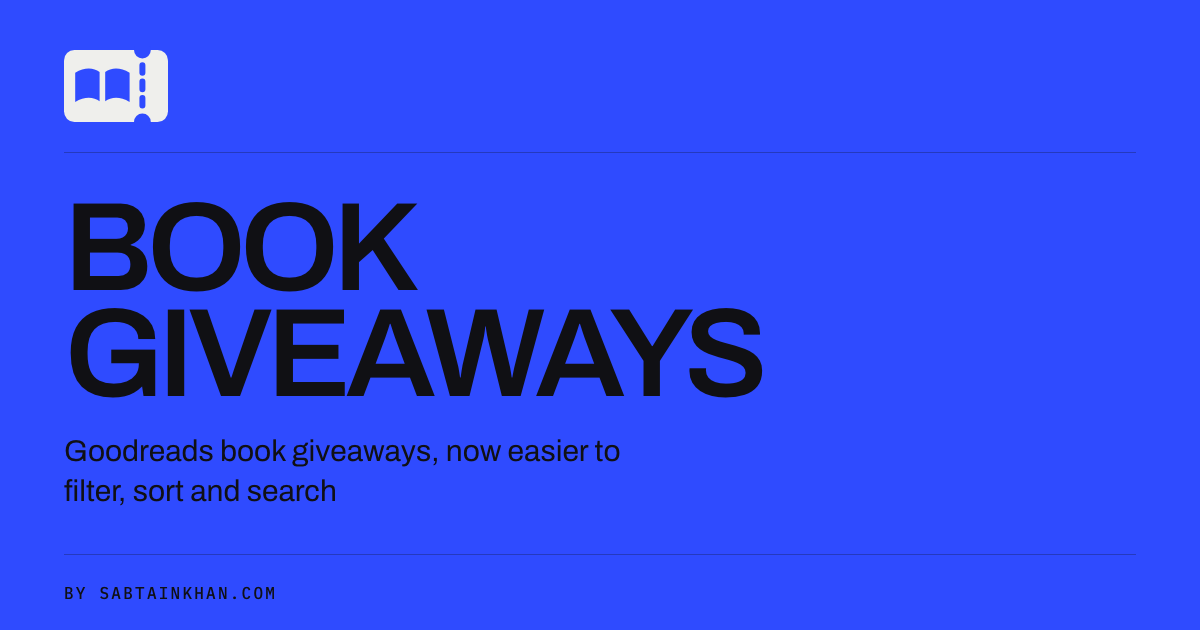
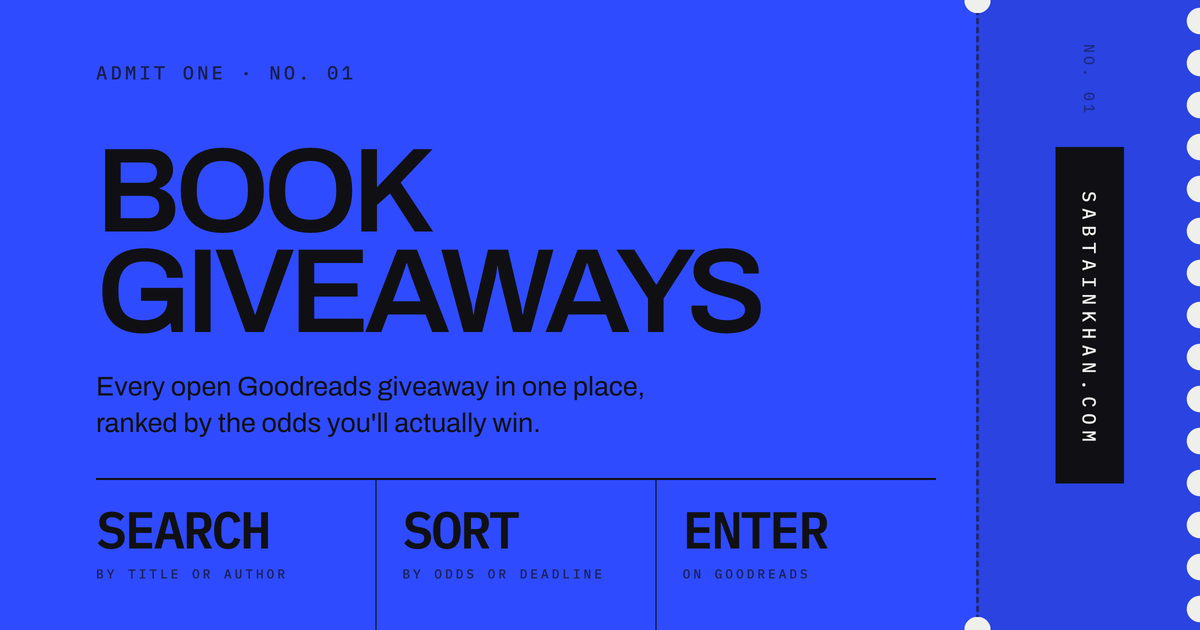
Redraw the share card as a raffle ticket
The hero became a raffle ticket in a9e6c9f; the share card never followed, so
every link still previewed the old flat panel. Rebuild it out of the hero's own
parts — the radial-gradient scallops, the perforated stub, the stat strip whose
1px gaps read as hairlines — scaled ~1.85x, because a timeline shows the card at
a third of its size.

Two departures from the hero. It is punched only down the right edge, where the
stub is and where a ticket is actually torn; punching all four turns it into a
stamp. And the stub runs the full height, because a perforation that stops short
reads as a panel rather than a tear line. Two additions the hero has no room
for: a nick bitten out of each end of the perforation, which is favicon.svg's
own geometry, and the serial repeated on the stub, since the point of a stub is
that both halves carry the number once it is torn.

The stub field is .13 rather than the hero's .07. At .07 it shifts the accent by
three units — fine across the hero at full size, invisible on a card scaled
down, which left the dashed line floating with nothing behind it.

Render at 2x and downsample, the same master-then-LANCZOS trick the icons
already use: the card is nearly all curves now and every one of them aliased at
1x. shot() takes a scale argument defaulting to 1, so the icon path is
untouched and its three PNGs are byte-identical.

diff --git a/tools/og.html b/tools/og.html
@@ -4,8 +4,11 @@
 <meta charset="utf-8">
 <title>Book Giveaways — share card</title>
 <!-- Source for public/og.png (1200x630). Render with: python3 tools/make-assets.py
-     Same palette and type system as public/index.html: accent field, ink text,
-     Archivo for display, IBM Plex Mono for the labels. -->
+     One raffle ticket filling the canvas — the same object as the hero in
+     public/index.html: punched edges, a perforated stub, a hairline stat strip.
+     Every value is the hero's, scaled ~1.85x, because a timeline shows this card
+     about a third of its true size. Deliberately static: no live counts, so
+     nothing here can contradict the page between scrapes. -->
 <link rel="preconnect" href="https://fonts.googleapis.com">
 <link rel="preconnect" href="https://fonts.gstatic.com" crossorigin>
 <link href="https://fonts.googleapis.com/css2?family=Archivo:wght@400;500;600;700&family=IBM+Plex+Mono:wght@400;500;600&display=swap" rel="stylesheet">
@@ -16,7 +19,6 @@
   --accent:#2F4BFF;
   --sans:Archivo,Helvetica,Arial,sans-serif;
   --mono:'IBM Plex Mono',monospace;
-  --rule:rgba(16,16,20,.28);
 }
 *{box-sizing:border-box;}
 html,body{margin:0;padding:0;}
@@ -30,83 +32,217 @@ body{
   -webkit-font-smoothing:antialiased;
 }
 .card{
-  width:100%;
+  position:relative;
+  width:1200px;
+  height:630px;
+}
+/* Everything left of the perforation. The right padding is the 224px stub plus
+   a 40px gap, so no line of type ever runs up against the dashes. */
+.body{
   height:100%;
-  padding:46px 64px 0;
   display:flex;
   flex-direction:column;
+  padding:46px 264px 0 96px;
 }
-.top{
+
+/* ------------------------------------------------------------ punched edge */
+/* Same technique as the hero: the scallops are cut in paper, because paper is
+   what's behind the ticket. Radius 13 over a 24px strip keeps the hero's 7/13,
+   and the 42px pitch divides the canvas exactly (630/42 = 15), so the edge ends
+   on a whole punch instead of a stranded half one.
+   Only the right edge, where the stub is: that is the edge the ticket is torn
+   along, and punching all four turns it into a stamp. The other three run off
+   the canvas the way the hero's top edge runs off the page.
+   Paper, never transparent: og.png is saved RGB and gets composited onto
+   whatever ground the platform has, so a transparent punch would go black. */
+.punch{position:absolute;pointer-events:none;}
+.punch-r{
+  top:0;
+  bottom:0;
+  right:0;
+  width:24px;
+  background-size:24px 42px;
+  background-repeat:repeat-y;
+  background-image:radial-gradient(circle at 24px 21px,var(--paper) 13px,rgba(239,239,236,0) 13.5px);
+}
+
+/* ----------------------------------------------------------------- top rail */
+/* Flush left, above the headline, the way .serial sits on the giveaway cards.
+   The serial format is the cards' too: String(i + 1).padStart(2, "0"). */
+.rail{
   display:flex;
   align-items:center;
-  justify-content:space-between;
-  padding-bottom:26px;
-  border-bottom:1px solid var(--rule);
+  height:52px;
+  font-family:var(--mono);
+  font-size:19px;
+  font-weight:500;
+  letter-spacing:.16em;
+  text-transform:uppercase;
+  opacity:.75;
 }
-.ticket{width:104px;height:80px;display:block;}
+
+/* ---------------------------------------------------------------------- mid */
 .mid{
   flex:1;
   display:flex;
   flex-direction:column;
   justify-content:center;
-  gap:24px;
-  padding:22px 0;
+  gap:26px;
+  padding-block:40px 34px;
 }
 h1{
   margin:0;
   font-weight:600;
-  font-size:126px;
+  font-size:120px;
   line-height:.84;
   letter-spacing:-.045em;
   text-transform:uppercase;
 }
-.deck{
-  margin:0;
-  max-width:34ch;
-  font-size:30px;
-  line-height:1.35;
-  font-weight:400;
-}
-.bottom{
+/* Hard-broken rather than wrapped: the canvas is a fixed size, so the line
+   breaks may as well be fixed too. */
+.deck{margin:0;font-size:27px;line-height:1.35;font-weight:400;}
+
+/* -------------------------------------------------------- tear-off stub */
+/* Full height, unlike the hero's, where the stub is only as tall as the headline
+   row: a real stub is torn off the whole ticket, and at thumbnail size a
+   perforation that stops short reads as a panel rather than a tear line. It sits
+   under the punch strips — they come after it in the DOM — so the scallops eat
+   into the stub exactly as they do into the rest of the ticket. */
+.stub{
+  position:absolute;
+  top:0;
+  bottom:0;
+  right:0;
+  width:224px;
   display:flex;
   align-items:center;
-  justify-content:space-between;
-  height:76px;
-  border-top:1px solid var(--rule);
+  justify-content:center;
+  /* The hero's stub field is .07, which shifts the accent by three units — fine
+     across the hero's width at full size, invisible on a card shown at a third
+     of it. .13 is the same idea, loud enough to survive the downscale. */
+  background:rgba(16,16,20,.13);
+  border-left:3px dashed rgba(16,16,20,.5);
+}
+/* A nick bitten out of each end of the perforation, the way a real ticket is
+   nicked so the tear starts cleanly. favicon.svg does the same thing — a punched
+   circle at each end of its dashed line — so this is the mark's own geometry.
+   Radius 13 is the scallops' radius: one die cut everything on the card. */
+.nick{
+  position:absolute;
+  left:964.5px;
+  width:26px;
+  height:13px;
+  pointer-events:none;
+}
+.nick-t{
+  top:0;
+  background-image:radial-gradient(circle at 13px 0,var(--paper) 13px,rgba(239,239,236,0) 13.5px);
+}
+.nick-b{
+  bottom:0;
+  background-image:radial-gradient(circle at 13px 13px,var(--paper) 13px,rgba(239,239,236,0) 13.5px);
+}
+/* The hero's ink chip, credit instead of "Tear here": a still image can't
+   honour the invitation to tear, but it can say where the ticket came from.
+   Padding is asymmetric because vertical-rl hangs the full .3em of tracking off
+   the last glyph — even padding would sit the word low in the chip. */
+/* The serial repeated on the stub — the whole point of a stub being that both
+   halves carry the same number once it's torn. Quieter than the one on the body
+   so it reads as a counterfoil rather than a second headline. */
+.stub-serial{
+  position:absolute;
+  top:44px;
+  left:50%;
+  transform:translateX(-50%);
+  writing-mode:vertical-rl;
   font-family:var(--mono);
-  font-size:16px;
+  font-size:15px;
   font-weight:500;
-  letter-spacing:.14em;
+  letter-spacing:.2em;
   text-transform:uppercase;
+  opacity:.45;
+}
+.chip{
+  background:var(--ink);
+  color:var(--paper);
+  padding:44px 22px 36px;
+  font-family:var(--mono);
+  font-size:19px;
+  font-weight:500;
+  letter-spacing:.3em;
+  text-transform:uppercase;
+  writing-mode:vertical-rl;
+}
+
+/* ----------------------------------------------------------- stat strip */
+/* The hero's construction exactly: accent cells over an ink background, so the
+   1px gaps read as hairlines. No numbers — the card is static, so the strip
+   carries the three verbs, which can't go stale. Their bottom padding is what
+   the bottom punch bites into, the same way it does under the hero's stats. */
+.stats{
+  display:grid;
+  grid-template-columns:repeat(3,1fr);
+  gap:1px;
+  background:var(--ink);
+  border-top:2px solid var(--ink);
+}
+.stat{
+  background:var(--accent);
+  /* The bottom padding clears the punch strip: the labels would otherwise sit
+     8px off the scallops and read as if they were about to be bitten. */
+  padding:26px 0 48px 26px;
+  display:flex;
+  flex-direction:column;
+  gap:12px;
+}
+.stat:first-child{padding-left:0;}
+.stat-value{
+  font-family:var(--mono);
+  font-size:52px;
+  font-weight:600;
+  line-height:.9;
+  letter-spacing:-.045em;
+  text-transform:uppercase;
+}
+.stat-label{
+  font-family:var(--mono);
+  font-size:13px;
+  font-weight:500;
+  letter-spacing:.22em;
+  text-transform:uppercase;
+  opacity:.7;
 }
 </style>
 </head>
 <body>
 
 <div class="card">
-  <div class="top">
-    <!-- Same mark as public/favicon.svg, minus its accent tile: the field is
-         already accent, so the ticket sits straight on it. -->
-    <svg class="ticket" viewBox="3 6 26 20" aria-hidden="true">
-      <rect x="3" y="7" width="26" height="18" rx="2.6" fill="#EFEFEC"/>
-      <circle cx="22.6" cy="7" r="2.1" fill="#2F4BFF"/>
-      <circle cx="22.6" cy="25" r="2.1" fill="#2F4BFF"/>
-      <path d="M22.6 10.8v10.4" stroke="#2F4BFF" stroke-width="1.5" stroke-linecap="round" stroke-dasharray="1.9 2.2"/>
-      <g fill="#2F4BFF">
-        <path d="M5.8 12.7c2.4-1.5 4.6-1.3 6.1-.2v7.3c-1.5-1.1-3.7-1.3-6.1.2z"/>
-        <path d="M19.4 12.7c-2.4-1.5-4.6-1.3-6.1-.2v7.3c1.5-1.1 3.7-1.3 6.1.2z"/>
-      </g>
-    </svg>
+  <div class="body">
+    <div class="rail">
+      <span class="serial">Admit one &middot; No.&nbsp;01</span>
+    </div>
+
+    <div class="mid">
+      <h1>Book<br>Giveaways</h1>
+      <p class="deck">Every open Goodreads giveaway in one place,<br>ranked by the odds you'll actually win.</p>
+    </div>
+
+    <div class="stats">
+      <div class="stat"><span class="stat-value">Search</span><span class="stat-label">By title or author</span></div>
+      <div class="stat"><span class="stat-value">Sort</span><span class="stat-label">By odds or deadline</span></div>
+      <div class="stat"><span class="stat-value">Enter</span><span class="stat-label">On Goodreads</span></div>
+    </div>
   </div>
 
-  <div class="mid">
-    <h1>Book<br>Giveaways</h1>
-    <p class="deck">Goodreads book giveaways, now easier to filter, sort and search</p>
+  <div class="stub">
+    <span class="stub-serial">No.&nbsp;01</span>
+    <span class="chip">sabtainkhan.com</span>
   </div>
 
-  <div class="bottom">
-    <span>By sabtainkhan.com</span>
-  </div>
+  <!-- Last, so the scallops are punched through the stub above them. -->
+  <span class="punch punch-r" aria-hidden="true"></span>
+  <span class="nick nick-t" aria-hidden="true"></span>
+  <span class="nick nick-b" aria-hidden="true"></span>
 </div>
 
 </body>

diff --git a/tools/make-assets.py b/tools/make-assets.py
@@ -29,10 +29,19 @@ ICON_MASTER = 512
 ICON_SIZES = {"favicon-16.png": 16, "favicon-32.png": 32, "apple-touch-icon.png": 180}
 
 OG_WIDTH, OG_HEIGHT = 1200, 630
+# The card is mostly curves now — a punched edge, the nicks at each end of the
+# perforation, hairline gaps in the stat strip — and all of them alias at 1x.
+# Same answer as the icons: render a 2x master and let Pillow do the downscale.
+# 2x is enough, because every value in og.html doubles to a whole device pixel.
+OG_SCALE = 2
 
 
-def shot(html_path, png_path, width, height):
-    """Screenshot a local HTML file at an exact viewport size."""
+def shot(html_path, png_path, width, height, scale=1):
+    """Screenshot a local HTML file at an exact viewport size.
+
+    width/height stay in CSS pixels; scale multiplies them into device pixels,
+    so the output is (width * scale) x (height * scale).
+    """
     if not pathlib.Path(CHROME).exists():
         sys.exit("Google Chrome not found at %s" % CHROME)
     subprocess.run(
@@ -41,7 +50,10 @@ def shot(html_path, png_path, width, height):
             "--headless",
             "--disable-gpu",
             "--hide-scrollbars",
-            "--force-device-scale-factor=1",
+            "--force-device-scale-factor=%d" % scale,
+            # The accent already lands on exact sRGB; this just stops a future
+            # Chrome tagging P3 on a wide-gamut Mac and shifting the blue.
+            "--force-color-profile=srgb",
             "--virtual-time-budget=8000",
             "--screenshot=%s" % png_path,
             "--window-size=%d,%d" % (width, height),
@@ -77,12 +89,17 @@ def render_icons(tmp):
 
 def render_og(tmp):
     out = tmp / "og.png"
-    shot(ROOT / "tools" / "og.html", out, OG_WIDTH, OG_HEIGHT)
+    shot(ROOT / "tools" / "og.html", out, OG_WIDTH, OG_HEIGHT, scale=OG_SCALE)
     img = Image.open(out).convert("RGB")
+    master = (OG_WIDTH * OG_SCALE, OG_HEIGHT * OG_SCALE)
+    if img.size != master:
+        img = img.crop((0, 0, min(img.width, master[0]), min(img.height, master[1])))
+    # Skipped if a Chrome ever ignores the scale flag and hands back 1x: the
+    # card is still correct at that point, only softer.
     if img.size != (OG_WIDTH, OG_HEIGHT):
-        img = img.crop((0, 0, OG_WIDTH, OG_HEIGHT))
+        img = img.resize((OG_WIDTH, OG_HEIGHT), Image.LANCZOS)
     img.save(PUBLIC / "og.png", optimize=True)
-    print("wrote public/og.png (%dx%d)" % img.size)
+    print("wrote public/og.png (%dx%d, from a %dx%d master)" % (img.size + master))
 
 
 def main():

diff --git a/README.md b/README.md
@@ -142,9 +142,24 @@ python3 tools/make-assets.py
 ```
 
 which shells out to headless Chrome (macOS path) and downsamples with Pillow.
-Rerun it after editing `favicon.svg` or `og.html`, and commit the PNGs; the site
-itself stays build-step free. The share card is deliberately static — no live
-counts — so nothing on it can go stale between scrapes.
+Both assets render at a multiple of their final size and get scaled down —
+the icon from a 512px master, the card at `--force-device-scale-factor=2` — so
+the punched scallops, the dashed perforation and the hairline gaps in the stat
+strip don't alias. Rerun it after editing `favicon.svg` or `og.html`, and commit
+the PNGs; the site itself stays build-step free.
+
+The card is the same raffle ticket as the hero, with the same tokens and the
+same radial-gradient scallops, scaled about 1.85x because a timeline shows it at
+a third of its size. Two deliberate departures from the hero: it is punched only
+down the right edge, where the stub is and where the ticket would actually be
+torn — punching all four turns it into a stamp — and its stub runs the full
+height, because a perforation that stops short reads as a panel rather than a
+tear line. Two details the hero has no room for: a nick bitten out of each end of
+the perforation, which is `favicon.svg`'s own geometry — a punched circle at each
+end of its dashed line — and the serial repeated on the stub, since the point of
+a stub is that both halves carry the number once it's torn. The card is also
+deliberately static — no live counts — so nothing on it can go stale between
+scrapes; the stat strip carries the three verbs instead.
 
 ### Other notes
 
